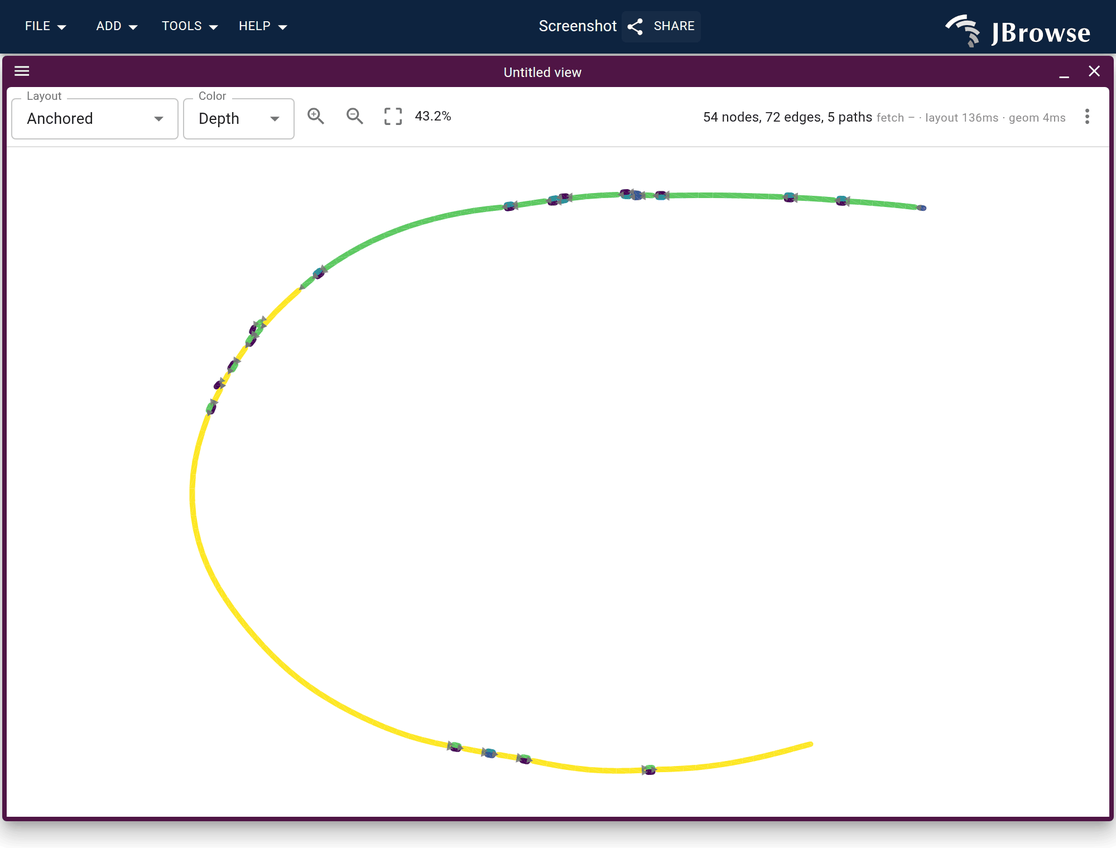
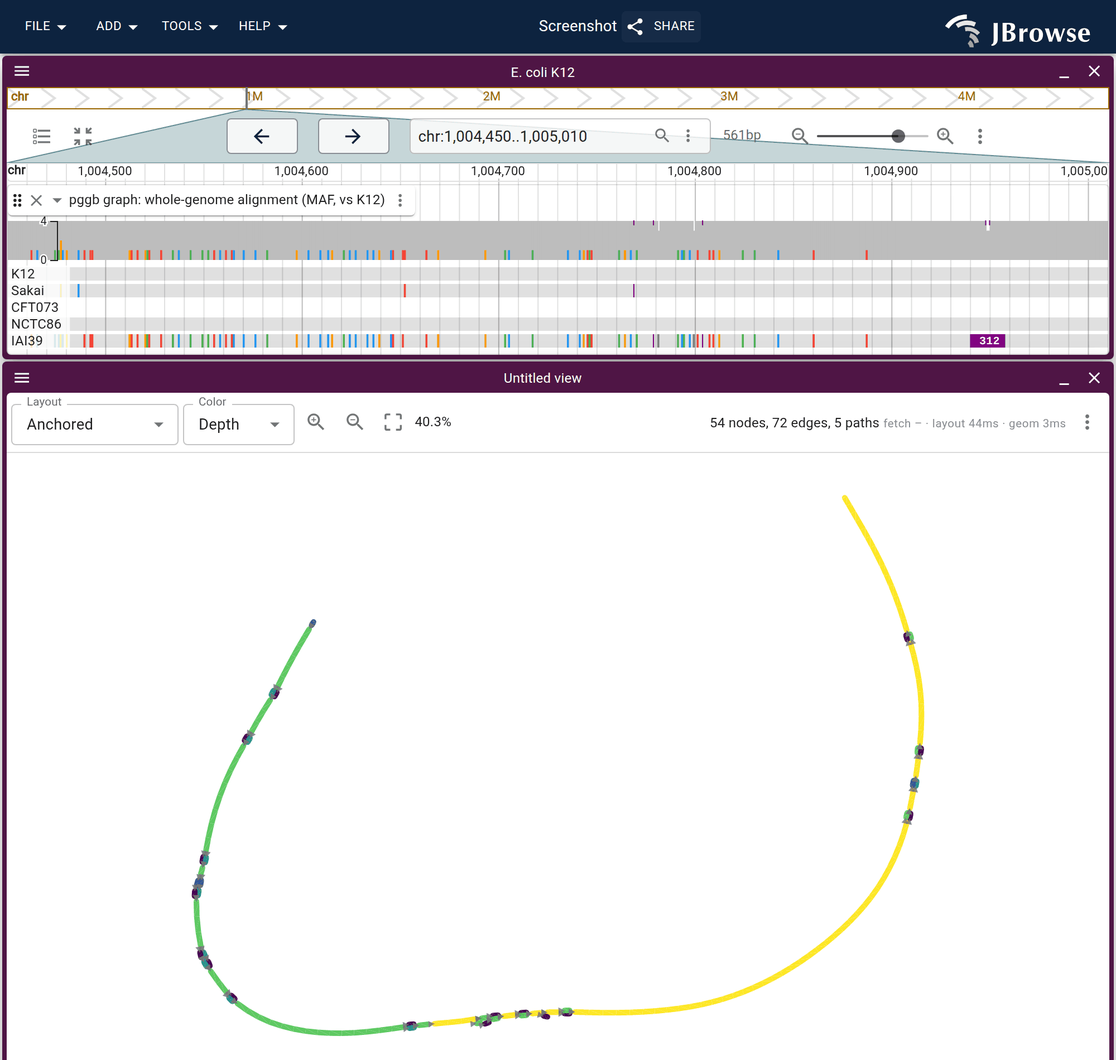
fix(website): pair the pggb subgraph with a linear view of its own locus
The figure was graph-only, and the standing answer was that it had to be: a
pggb GFA tags no segment with a position, so there is no per-node
correspondence to draw. That is true and still leaves the locus knowable — it
is written into the five P line names, K12#1#chr:1004500-1004961 — so the frame
now carries the pggb MAF over that window above the graph. The MAF's five rows
are the graph's five paths, IAI39 is the row that diverges, and the darker
specks along the graph backbone are what it diverges by.

canvasHeight has to be pinned. zoomToFit fits the layout to canvasHeight, which
the view measures before the linear view above it has laid out, so left alone
it fits to a taller canvas than it ends up with and the bottom of the graph is
cut off; asking for layoutMode 'force' explicitly makes that worse.

Also regenerates the gallery links, figure manifest and spec-recipe unmapped
list, which were stale at HEAD.

Claude-Session: https://claude.ai/code/session_015wcviw8sXrFUYPVPH544JQ

diff --git a/website/src/lib/galleryLinks.generated.ts b/website/src/lib/galleryLinks.generated.ts
@@ -14,7 +14,7 @@ export const specSessionUrls: Record<string, string> = {
   "multiway_synteny/ecoli_pangenome": "?config=https%3A%2F%2Fjbrowse.org%2Fdemos%2Fecoli_pangenome%2Fconfig.json&session=spec-%7B%22views%22%3A%5B%7B%22type%22%3A%22LinearSyntenyView%22%2C%22views%22%3A%5B%7B%22assembly%22%3A%22K12%22%7D%2C%7B%22assembly%22%3A%22Sakai%22%7D%2C%7B%22assembly%22%3A%22CFT073%22%7D%2C%7B%22assembly%22%3A%22NCTC86%22%7D%2C%7B%22assembly%22%3A%22IAI39%22%7D%5D%2C%22tracks%22%3A%5B%5B%22ecoli_ava%22%5D%2C%5B%22ecoli_ava%22%5D%2C%5B%22ecoli_ava%22%5D%2C%5B%22ecoli_ava%22%5D%5D%2C%22drawCurves%22%3Afalse%2C%22colorBy%22%3A%22default%22%2C%22minAlignmentLength%22%3A10000%2C%22levelHeights%22%3A%5B110%2C110%2C110%2C110%5D%7D%5D%7D&sessionName=Screenshot",
   "multiway_synteny/ecoli_stx_island": "?config=https%3A%2F%2Fjbrowse.org%2Fdemos%2Fecoli_pangenome%2Fconfig.json&session=spec-%7B%22views%22%3A%5B%7B%22type%22%3A%22LinearSyntenyView%22%2C%22views%22%3A%5B%7B%22assembly%22%3A%22K12%22%2C%22loc%22%3A%22chr%3A1%2C026%2C000-1%2C126%2C000%22%2C%22tracks%22%3A%5B%7B%22trackId%22%3A%22K12_genes%22%2C%22showOnlyGenes%22%3Atrue%2C%22displayMode%22%3A%22compact%22%2C%22showDescriptions%22%3Afalse%7D%5D%7D%2C%7B%22assembly%22%3A%22Sakai%22%2C%22loc%22%3A%22chr%3A1%2C205%2C000-1%2C305%2C000%22%2C%22tracks%22%3A%5B%7B%22trackId%22%3A%22Sakai_genes%22%2C%22showOnlyGenes%22%3Atrue%2C%22displayMode%22%3A%22compact%22%2C%22showDescriptions%22%3Afalse%7D%5D%7D%5D%2C%22tracks%22%3A%5B%5B%22ecoli_ava%22%5D%5D%2C%22drawCurves%22%3Atrue%2C%22colorBy%22%3A%22default%22%7D%5D%7D&sessionName=Screenshot",
   "multiway_synteny/ecoli_one_vs_all": "?config=https%3A%2F%2Fjbrowse.org%2Fdemos%2Fecoli_pangenome%2Fconfig.json&session=spec-%7B%22views%22%3A%5B%7B%22type%22%3A%22LinearGenomeView%22%2C%22assembly%22%3A%22K12%22%2C%22loc%22%3A%22chr%3A1%2C440%2C000-1%2C473%2C000%22%2C%22highlight%22%3A%5B%7B%22refName%22%3A%22chr%22%2C%22start%22%3A1446100%2C%22end%22%3A1467921%2C%22color%22%3A%22rgba(214%2C137%2C16%2C0.13)%22%7D%5D%2C%22tracks%22%3A%5B%7B%22trackId%22%3A%22K12_genes%22%2C%22showOnlyGenes%22%3Atrue%2C%22displayMode%22%3A%22compact%22%2C%22showDescriptions%22%3Afalse%7D%2C%7B%22trackId%22%3A%22ecoli_ava%22%2C%22type%22%3A%22LGVSyntenyDisplay%22%2C%22groupBy%22%3A%7B%22type%22%3A%22mateAssembly%22%7D%2C%22hideSelfAlignments%22%3Atrue%2C%22featureHeight%22%3A14%2C%22height%22%3A135%7D%5D%7D%5D%7D&sessionName=Screenshot",
-  "multiway_synteny/ecoli_one_vs_all_whole_genome": "?config=https%3A%2F%2Fjbrowse.org%2Fdemos%2Fecoli_pangenome%2Fconfig.json&session=spec-%7B%22views%22%3A%5B%7B%22type%22%3A%22LinearGenomeView%22%2C%22assembly%22%3A%22K12%22%2C%22loc%22%3A%22chr%3A1-4%2C641%2C652%22%2C%22tracks%22%3A%5B%7B%22trackId%22%3A%22ecoli_ava%22%2C%22type%22%3A%22LGVSyntenyDisplay%22%2C%22groupBy%22%3A%7B%22type%22%3A%22mateAssembly%22%7D%2C%22hideSelfAlignments%22%3Atrue%2C%22showMismatches%22%3Afalse%2C%22featureHeight%22%3A14%2C%22height%22%3A135%7D%5D%7D%5D%7D&sessionName=Screenshot",
+  "multiway_synteny/ecoli_one_vs_all_whole_genome": "?config=https%3A%2F%2Fjbrowse.org%2Fdemos%2Fecoli_pangenome%2Fconfig.json&session=spec-%7B%22views%22%3A%5B%7B%22type%22%3A%22LinearSyntenyView%22%2C%22views%22%3A%5B%7B%22assembly%22%3A%22K12%22%2C%22loc%22%3A%22chr%3A1-4%2C641%2C652%22%2C%22tracks%22%3A%5B%7B%22trackId%22%3A%22ecoli_ava%22%2C%22type%22%3A%22LGVSyntenyDisplay%22%2C%22groupBy%22%3A%7B%22type%22%3A%22mateAssembly%22%7D%2C%22hideSelfAlignments%22%3Atrue%2C%22showMismatches%22%3Afalse%2C%22featureHeight%22%3A20%2C%22height%22%3A115%7D%5D%7D%2C%7B%22assembly%22%3A%22IAI39%22%7D%2C%7B%22assembly%22%3A%22Sakai%22%7D%2C%7B%22assembly%22%3A%22CFT073%22%7D%2C%7B%22assembly%22%3A%22NCTC86%22%7D%5D%2C%22tracks%22%3A%5B%5B%22ecoli_ava%22%5D%2C%5B%22ecoli_ava%22%5D%2C%5B%22ecoli_ava%22%5D%2C%5B%22ecoli_ava%22%5D%5D%2C%22drawCurves%22%3Afalse%2C%22colorBy%22%3A%22strand%22%2C%22minAlignmentLength%22%3A10000%2C%22levelHeights%22%3A%5B100%2C100%2C100%2C100%5D%7D%5D%7D&sessionName=Screenshot",
   "multiway_synteny/ecoli_import_form": "?config=https%3A%2F%2Fjbrowse.org%2Fdemos%2Fecoli_pangenome%2Fconfig.json&session=spec-%7B%22views%22%3A%5B%5D%7D&sessionName=Screenshot",
   "linear_synteny_gallery": "?config=test_data/config_dotplot.json&session=spec-%7B%22views%22%3A%5B%7B%22type%22%3A%22LinearSyntenyView%22%2C%22drawCurves%22%3Atrue%2C%22tracks%22%3A%5B%5B%22grape_peach_synteny_mcscan%22%2C%22grape_peach_synteny_mcscan_simple%22%5D%5D%2C%22levelHeights%22%3A%5B236%5D%2C%22views%22%3A%5B%7B%22assembly%22%3A%22peach%22%2C%22loc%22%3A%22Pp05%3A7%2C380%2C181-14%2C148%2C567%22%2C%22tracks%22%3A%5B%7B%22trackId%22%3A%22grape_peach_synteny_mcscan_simple%22%2C%22type%22%3A%22LGVSyntenyDisplay%22%2C%22height%22%3A60%7D%5D%7D%2C%7B%22assembly%22%3A%22grape%22%2C%22loc%22%3A%22chr2%3A1-7%2C112%2C179%22%2C%22tracks%22%3A%5B%7B%22trackId%22%3A%22grape_peach_synteny_mcscan_simple%22%2C%22type%22%3A%22LGVSyntenyDisplay%22%2C%22height%22%3A60%7D%5D%7D%5D%7D%5D%7D&sessionName=Screenshot",
   "hs1_vs_mm39_synteny": "?config=test_data/hs1_vs_mm39/config.json&session=spec-%7B%22views%22%3A%5B%7B%22type%22%3A%22LinearSyntenyView%22%2C%22tracks%22%3A%5B%22hs1ToMm39.over.chain.pif%22%5D%2C%22minAlignmentLength%22%3A500000%2C%22drawCurves%22%3Afalse%2C%22autoDiagonalize%22%3Atrue%2C%22colorBy%22%3A%22query%22%2C%22alpha%22%3A0.4%2C%22levelHeights%22%3A%5B350%5D%2C%22views%22%3A%5B%7B%22assembly%22%3A%22hs1%22%7D%2C%7B%22assembly%22%3A%22mm39%22%7D%5D%7D%5D%7D&sessionName=Screenshot",
@@ -183,15 +183,15 @@ export const specSessionUrls: Record<string, string> = {
   "maf_470way": "?config=test_data/hg38_multiz470way.json&session=spec-%7B%22sessionTracks%22%3A%5B%7B%22type%22%3A%22FeatureTrack%22%2C%22trackId%22%3A%22ncbi_genes_hg38_ucsc%22%2C%22name%22%3A%22NCBI%20RefSeq%20(UCSC)%22%2C%22assemblyNames%22%3A%5B%22hg38%22%5D%2C%22adapter%22%3A%7B%22type%22%3A%22Gff3TabixAdapter%22%2C%22gffGzLocation%22%3A%7B%22uri%22%3A%22https%3A%2F%2Fjbrowse.org%2Fucsc%2Fhg38%2Fhg38.gff.gz%22%2C%22locationType%22%3A%22UriLocation%22%7D%2C%22index%22%3A%7B%22location%22%3A%7B%22uri%22%3A%22https%3A%2F%2Fjbrowse.org%2Fucsc%2Fhg38%2Fhg38.gff.gz.csi%22%2C%22locationType%22%3A%22UriLocation%22%7D%2C%22indexType%22%3A%22CSI%22%7D%7D%7D%5D%2C%22views%22%3A%5B%7B%22type%22%3A%22LinearGenomeView%22%2C%22assembly%22%3A%22hg38%22%2C%22loc%22%3A%2212%3A6%2C536%2C700-6%2C537%2C400%22%2C%22trackLabels%22%3A%22offset%22%2C%22tracks%22%3A%5B%7B%22trackId%22%3A%22ncbi_genes_hg38_ucsc%22%2C%22type%22%3A%22LinearBasicDisplay%22%2C%22geneGlyphMode%22%3A%22longestCoding%22%7D%2C%7B%22trackId%22%3A%22hg38.multiz470way%22%2C%22type%22%3A%22LinearMafDisplay%22%2C%22height%22%3A600%2C%22rowIdentityMode%22%3A%22heatmap%22%2C%22rowIdentityAutoZoom%22%3Afalse%7D%5D%7D%5D%7D&sessionName=Screenshot",
   "maf_470way_codon": "?config=test_data/hg38_multiz470way.json&session=spec-%7B%22sessionTracks%22%3A%5B%7B%22type%22%3A%22FeatureTrack%22%2C%22trackId%22%3A%22mane_hg38%22%2C%22name%22%3A%22MANE%20Select%201.4%20(NCBI%20RefSeq)%22%2C%22assemblyNames%22%3A%5B%22hg38%22%5D%2C%22adapter%22%3A%7B%22type%22%3A%22BigBedAdapter%22%2C%22bigBedLocation%22%3A%7B%22uri%22%3A%22https%3A%2F%2Fftp.ncbi.nlm.nih.gov%2Frefseq%2FMANE%2Ftrackhub%2Fdata%2Frelease_1.4%2FMANE.GRCh38.v1.4.refseq.bb%22%2C%22locationType%22%3A%22UriLocation%22%7D%7D%7D%5D%2C%22views%22%3A%5B%7B%22type%22%3A%22LinearGenomeView%22%2C%22assembly%22%3A%22hg38%22%2C%22trackLabels%22%3A%22offset%22%2C%22colorByCDS%22%3Atrue%2C%22loc%22%3A%2212%3A6%2C536%2C485-6%2C536%2C590%22%2C%22tracks%22%3A%5B%22mane_hg38%22%2C%7B%22trackId%22%3A%22hg38.multiz470way%22%2C%22type%22%3A%22LinearMafDisplay%22%2C%22heightOverride%22%3A560%2C%22showTranslation%22%3Atrue%2C%22showConservation%22%3Atrue%2C%22conservationMode%22%3A%22codon%22%2C%22subtreeFilter%22%3A%5B%22hg38%22%2C%22panTro6%22%2C%22gorGor6%22%2C%22ponAbe3%22%2C%22rheMac10%22%2C%22HLcalJac4%22%2C%22otoGar3%22%2C%22mm39%22%2C%22rn6%22%2C%22cavPor3%22%2C%22hetGla2%22%2C%22oryCun2%22%2C%22tupBel1%22%2C%22bosTau9%22%2C%22HLoviAri5%22%2C%22susScr11%22%2C%22vicPac2%22%2C%22turTru2%22%2C%22equCab3%22%2C%22cerSim1%22%2C%22felCat9%22%2C%22canFam4%22%2C%22ursMar1%22%2C%22myoLuc2%22%2C%22eriEur2%22%2C%22HLloxAfr4%22%2C%22echTel2%22%2C%22oryAfe1%22%2C%22dasNov3%22%2C%22monDom5%22%2C%22HLornAna3%22%5D%7D%5D%7D%5D%7D&sessionName=Screenshot",
   "pangenome/pangenome_variants": "?config=https%3A%2F%2Fjbrowse.org%2Fdemos%2Fecoli_pangenome%2Fconfig.json&session=spec-%7B%22views%22%3A%5B%7B%22type%22%3A%22LinearGenomeView%22%2C%22assembly%22%3A%22K12%22%2C%22loc%22%3A%22chr%3A2%2C120%2C000-2%2C140%2C000%22%2C%22tracks%22%3A%5B%7B%22trackId%22%3A%22K12_genes%22%2C%22type%22%3A%22LinearBasicDisplay%22%7D%2C%7B%22trackId%22%3A%22ecoli_pggb_variants%22%2C%22type%22%3A%22LinearMultiSampleVariantDisplay%22%2C%22height%22%3A160%2C%22jexlFilters%22%3A%5B%22jexl%3Aget(feature%2C'end')-get(feature%2C'start')%20%3C%20100%22%5D%7D%2C%7B%22trackId%22%3A%22ecoli_pggb_maf%22%2C%22type%22%3A%22LinearMafDisplay%22%7D%5D%7D%5D%7D&sessionName=Screenshot",
-  "pangenome/maf": "?config=https%3A%2F%2Fjbrowse.org%2Fdemos%2Fecoli_pangenome%2Fconfig.json&session=spec-%7B%22views%22%3A%5B%7B%22type%22%3A%22LinearGenomeView%22%2C%22assembly%22%3A%22K12%22%2C%22loc%22%3A%22chr%3A800%2C000-806%2C000%22%2C%22tracks%22%3A%5B%7B%22trackId%22%3A%22K12_genes%22%2C%22type%22%3A%22LinearBasicDisplay%22%7D%2C%7B%22trackId%22%3A%22ecoli_pggb_variants%22%2C%22type%22%3A%22LinearMultiSampleVariantDisplay%22%2C%22height%22%3A120%2C%22jexlFilters%22%3A%5B%22jexl%3Aget(feature%2C'end')-get(feature%2C'start')%20%3C%20100%22%5D%7D%2C%7B%22trackId%22%3A%22ecoli_pggb_maf%22%2C%22type%22%3A%22LinearMafDisplay%22%7D%5D%7D%5D%7D&sessionName=Screenshot",
+  "pangenome/maf": "?config=https%3A%2F%2Fjbrowse.org%2Fdemos%2Fecoli_pangenome%2Fconfig.json&session=spec-%7B%22views%22%3A%5B%7B%22type%22%3A%22LinearGenomeView%22%2C%22assembly%22%3A%22K12%22%2C%22loc%22%3A%22chr%3A4%2C540%2C000-4%2C600%2C000%22%2C%22tracks%22%3A%5B%7B%22trackId%22%3A%22K12_genes%22%2C%22type%22%3A%22LinearBasicDisplay%22%7D%2C%7B%22trackId%22%3A%22ecoli_pggb_variants%22%2C%22type%22%3A%22LinearMultiSampleVariantDisplay%22%2C%22height%22%3A120%2C%22jexlFilters%22%3A%5B%22jexl%3Aget(feature%2C'end')-get(feature%2C'start')%20%3C%20100%22%5D%7D%2C%7B%22trackId%22%3A%22ecoli_pggb_maf%22%2C%22type%22%3A%22LinearMafDisplay%22%7D%5D%7D%5D%7D&sessionName=Screenshot",
   "pangenome/depth": "?config=https%3A%2F%2Fjbrowse.org%2Fdemos%2Fecoli_pangenome%2Fconfig.json&session=spec-%7B%22views%22%3A%5B%7B%22type%22%3A%22LinearGenomeView%22%2C%22assembly%22%3A%22K12%22%2C%22loc%22%3A%22chr%3A1-4%2C641%2C652%22%2C%22tracks%22%3A%5B%7B%22trackId%22%3A%22ecoli_pggb_depth%22%2C%22type%22%3A%22LinearWiggleDisplay%22%2C%22height%22%3A200%7D%5D%7D%5D%7D&sessionName=Screenshot",
   "pangenome/pav": "?config=https%3A%2F%2Fjbrowse.org%2Fdemos%2Fecoli_pangenome%2Fconfig.json&session=spec-%7B%22views%22%3A%5B%7B%22type%22%3A%22LinearGenomeView%22%2C%22assembly%22%3A%22K12%22%2C%22loc%22%3A%22chr%3A1-4%2C641%2C652%22%2C%22tracks%22%3A%5B%7B%22trackId%22%3A%22ecoli_pggb_pav%22%2C%22type%22%3A%22MultiLinearWiggleDisplay%22%2C%22height%22%3A320%7D%5D%7D%5D%7D&sessionName=Screenshot",
   "pangenome_cactus/synteny": "?config=https%3A%2F%2Fjbrowse.org%2Fdemos%2Fecoli_pangenome%2Fconfig.json&session=spec-%7B%22views%22%3A%5B%7B%22type%22%3A%22LinearSyntenyView%22%2C%22views%22%3A%5B%7B%22assembly%22%3A%22K12%22%7D%2C%7B%22assembly%22%3A%22Sakai%22%7D%2C%7B%22assembly%22%3A%22CFT073%22%7D%2C%7B%22assembly%22%3A%22NCTC86%22%7D%2C%7B%22assembly%22%3A%22IAI39%22%7D%5D%2C%22tracks%22%3A%5B%5B%22ecoli_cactus_ava%22%5D%2C%5B%22ecoli_cactus_ava%22%5D%2C%5B%22ecoli_cactus_ava%22%5D%2C%5B%22ecoli_cactus_ava%22%5D%5D%2C%22drawCurves%22%3Afalse%2C%22colorBy%22%3A%22default%22%2C%22minAlignmentLength%22%3A10000%2C%22levelHeights%22%3A%5B110%2C110%2C110%2C110%5D%7D%5D%7D&sessionName=Screenshot",
-  "pangenome_cactus/variant_matrix": "?config=https%3A%2F%2Fjbrowse.org%2Fdemos%2Fecoli_pangenome%2Fconfig.json&session=spec-%7B%22sessionTracks%22%3A%5B%7B%22type%22%3A%22VariantTrack%22%2C%22trackId%22%3A%22ecoli_cactus_variants_raw%22%2C%22name%22%3A%22MC%20graph%3A%20pangenome%20variants%20(raw%20calls)%22%2C%22assemblyNames%22%3A%5B%22K12%22%5D%2C%22adapter%22%3A%7B%22type%22%3A%22VcfTabixAdapter%22%2C%22uri%22%3A%22https%3A%2F%2Fjbrowse.org%2Fdemos%2Fecoli_pangenome%2Fecoli_cactus.vcf.gz%22%7D%7D%5D%2C%22views%22%3A%5B%7B%22type%22%3A%22LinearGenomeView%22%2C%22assembly%22%3A%22K12%22%2C%22loc%22%3A%22chr%3A995%2C000-1%2C015%2C000%22%2C%22tracks%22%3A%5B%7B%22trackId%22%3A%22K12_genes%22%2C%22type%22%3A%22LinearBasicDisplay%22%7D%2C%7B%22trackId%22%3A%22ecoli_cactus_variants_raw%22%2C%22type%22%3A%22LinearVariantDisplay%22%2C%22height%22%3A70%7D%2C%7B%22trackId%22%3A%22ecoli_cactus_variants%22%2C%22type%22%3A%22LinearMultiSampleVariantDisplay%22%2C%22height%22%3A160%2C%22jexlFilters%22%3A%5B%22jexl%3Aget(feature%2C'end')-get(feature%2C'start')%20%3C%20100%22%5D%7D%2C%7B%22trackId%22%3A%22ecoli_cactus_maf%22%2C%22type%22%3A%22LinearMafDisplay%22%7D%5D%7D%5D%7D&sessionName=Screenshot",
+  "pangenome_cactus/variant_matrix": "?config=https%3A%2F%2Fjbrowse.org%2Fdemos%2Fecoli_pangenome%2Fconfig.json&session=spec-%7B%22views%22%3A%5B%7B%22type%22%3A%22LinearGenomeView%22%2C%22assembly%22%3A%22K12%22%2C%22loc%22%3A%22chr%3A2%2C200%2C000-2%2C220%2C000%22%2C%22tracks%22%3A%5B%7B%22trackId%22%3A%22K12_genes%22%2C%22type%22%3A%22LinearBasicDisplay%22%7D%2C%7B%22trackId%22%3A%22ecoli_cactus_variants%22%2C%22type%22%3A%22LinearMultiSampleVariantDisplay%22%2C%22height%22%3A200%2C%22forceLoad%22%3Atrue%2C%22jexlFilters%22%3A%5B%22jexl%3AalleleLength(feature)%20%3C%20100%22%5D%7D%2C%7B%22trackId%22%3A%22ecoli_cactus_maf%22%2C%22type%22%3A%22LinearMafDisplay%22%7D%5D%7D%5D%7D&sessionName=Screenshot",
   "pangenome_cactus/maf": "?config=https%3A%2F%2Fjbrowse.org%2Fdemos%2Fecoli_pangenome%2Fconfig.json&session=spec-%7B%22views%22%3A%5B%7B%22type%22%3A%22LinearGenomeView%22%2C%22assembly%22%3A%22K12%22%2C%22loc%22%3A%22chr%3A800%2C000-806%2C000%22%2C%22tracks%22%3A%5B%7B%22trackId%22%3A%22K12_genes%22%2C%22type%22%3A%22LinearBasicDisplay%22%7D%2C%7B%22trackId%22%3A%22ecoli_cactus_maf%22%2C%22type%22%3A%22LinearMafDisplay%22%7D%5D%7D%5D%7D&sessionName=Screenshot",
-  "pangenome_cactus/graph_correspondence": "?config=https%3A%2F%2Fjbrowse.org%2Fdemos%2Fecoli_pangenome%2Fconfig.json&session=spec-%7B%22views%22%3A%5B%7B%22type%22%3A%22LinearGenomeView%22%2C%22assembly%22%3A%22K12%22%2C%22loc%22%3A%22chr%3A1-4%2C641%2C652%22%2C%22highlight%22%3A%5B%7B%22refName%22%3A%22chr%22%2C%22start%22%3A1000000%2C%22end%22%3A1100000%2C%22color%22%3A%22rgba(31%2C119%2C180%2C0.40)%22%7D%2C%7B%22refName%22%3A%22chr%22%2C%22start%22%3A2040000%2C%22end%22%3A2140000%2C%22color%22%3A%22rgba(255%2C127%2C14%2C0.40)%22%7D%2C%7B%22refName%22%3A%22chr%22%2C%22start%22%3A3100000%2C%22end%22%3A3200000%2C%22color%22%3A%22rgba(44%2C160%2C44%2C0.40)%22%7D%5D%2C%22tracks%22%3A%5B%7B%22trackId%22%3A%22ecoli_cactus_depth%22%2C%22type%22%3A%22LinearWiggleDisplay%22%2C%22height%22%3A160%7D%5D%7D%5D%7D&sessionName=Screenshot",
+  "pangenome_cactus/graph_correspondence": "?config=https%3A%2F%2Fjbrowse.org%2Fdemos%2Fecoli_pangenome%2Fconfig.json&session=spec-%7B%22views%22%3A%5B%7B%22type%22%3A%22LinearGenomeView%22%2C%22assembly%22%3A%22K12%22%2C%22loc%22%3A%22chr%3A1-4%2C641%2C652%22%2C%22highlight%22%3A%5B%7B%22refName%22%3A%22chr%22%2C%22start%22%3A1000000%2C%22end%22%3A1100000%2C%22color%22%3A%22rgba(255%2C193%2C7%2C0.60)%22%7D%5D%2C%22tracks%22%3A%5B%7B%22trackId%22%3A%22ecoli_cactus_depth%22%2C%22type%22%3A%22LinearWiggleDisplay%22%2C%22height%22%3A160%7D%5D%7D%5D%7D&sessionName=Screenshot",
   "pangenome_cactus/pav": "?config=https%3A%2F%2Fjbrowse.org%2Fdemos%2Fecoli_pangenome%2Fconfig.json&session=spec-%7B%22views%22%3A%5B%7B%22type%22%3A%22LinearGenomeView%22%2C%22assembly%22%3A%22K12%22%2C%22loc%22%3A%22chr%3A1-4%2C641%2C652%22%2C%22tracks%22%3A%5B%7B%22trackId%22%3A%22ecoli_cactus_depth%22%2C%22type%22%3A%22LinearWiggleDisplay%22%2C%22height%22%3A150%7D%2C%7B%22trackId%22%3A%22ecoli_cactus_pav%22%2C%22type%22%3A%22MultiLinearWiggleDisplay%22%2C%22height%22%3A240%7D%5D%7D%5D%7D&sessionName=Screenshot",
-  "pangenome/local_subgraph": "?config=test_data/graphgenomeview/config.json&session=spec-%7B%22views%22%3A%5B%7B%22type%22%3A%22GraphGenomeView%22%2C%22gfaLocation%22%3A%7B%22uri%22%3A%22https%3A%2F%2Fjbrowse.org%2Fdemos%2Fecoli_pangenome%2Fecoli_pggb_subgraph.gfa%22%7D%2C%22colorScheme%22%3A%22depth%22%7D%5D%7D&sessionName=Screenshot",
+  "pangenome/local_subgraph": "?config=test_data/graphgenomeview/config.json&session=spec-%7B%22sessionTracks%22%3A%5B%7B%22type%22%3A%22MafTrack%22%2C%22trackId%22%3A%22ecoli_pggb_maf%22%2C%22name%22%3A%22pggb%20graph%3A%20whole-genome%20alignment%20(MAF%2C%20vs%20K12)%22%2C%22assemblyNames%22%3A%5B%22K12%22%5D%2C%22adapter%22%3A%7B%22type%22%3A%22BgzipTaffyAdapter%22%2C%22samples%22%3A%5B%22K12%22%2C%22Sakai%22%2C%22CFT073%22%2C%22NCTC86%22%2C%22IAI39%22%5D%2C%22tafGzLocation%22%3A%7B%22uri%22%3A%22https%3A%2F%2Fjbrowse.org%2Fdemos%2Fecoli_pangenome%2Fecoli_pggb.taf.gz%22%7D%2C%22taiLocation%22%3A%7B%22uri%22%3A%22https%3A%2F%2Fjbrowse.org%2Fdemos%2Fecoli_pangenome%2Fecoli_pggb.taf.gz.tai%22%7D%7D%7D%5D%2C%22views%22%3A%5B%7B%22type%22%3A%22LinearGenomeView%22%2C%22assembly%22%3A%22K12%22%2C%22loc%22%3A%22chr%3A1%2C004%2C450-1%2C005%2C010%22%2C%22tracks%22%3A%5B%7B%22trackId%22%3A%22ecoli_pggb_maf%22%2C%22type%22%3A%22LinearMafDisplay%22%7D%5D%7D%2C%7B%22type%22%3A%22GraphGenomeView%22%2C%22gfaLocation%22%3A%7B%22uri%22%3A%22https%3A%2F%2Fjbrowse.org%2Fdemos%2Fecoli_pangenome%2Fecoli_pggb_subgraph.gfa%22%7D%2C%22layoutMode%22%3A%22force%22%2C%22colorScheme%22%3A%22depth%22%2C%22contigThickness%22%3A16%7D%5D%7D&sessionName=Screenshot",
   "pangenome/rgfa_subgraph_launch": "?config=test_data/graphgenomeview/config.json&session=spec-%7B%22sessionTracks%22%3A%5B%7B%22type%22%3A%22FeatureTrack%22%2C%22trackId%22%3A%22ecoli_minigraph_segments%22%2C%22name%22%3A%22minigraph%20graph%20segments%20(rGFA)%22%2C%22assemblyNames%22%3A%5B%22K12%22%5D%2C%22adapter%22%3A%7B%22type%22%3A%22RgfaTabixAdapter%22%2C%22uri%22%3A%22https%3A%2F%2Fjbrowse.org%2Fdemos%2Fecoli_pangenome%2Fecoli_minigraph%22%7D%2C%22displayDefaults%22%3A%7B%22color%22%3A%22jexl%3Aget(feature%2C'rank')%3D%3D0%3F'rgb(52%2C152%2C219)'%3A'rgb(237%2C137%2C44)'%22%7D%7D%5D%2C%22views%22%3A%5B%7B%22type%22%3A%22LinearGenomeView%22%2C%22assembly%22%3A%22K12%22%2C%22loc%22%3A%22chr%3A4%2C050%2C000-4%2C100%2C000%22%2C%22tracks%22%3A%5B%22ecoli_minigraph_segments%22%5D%7D%2C%7B%22type%22%3A%22GraphGenomeView%22%2C%22loadedTrackId%22%3A%22ecoli_minigraph_segments%22%2C%22loadedRegion%22%3A%7B%22refName%22%3A%22chr%22%2C%22assemblyName%22%3A%22K12%22%2C%22start%22%3A4050000%2C%22end%22%3A4100000%7D%2C%22colorScheme%22%3A%22stable-rank%22%7D%5D%7D&sessionName=Screenshot",
   "pangenome/hprc_mhc_bandage": "?config=test_data/graphgenomeview/hprc.json&session=spec-%7B%22views%22%3A%5B%7B%22type%22%3A%22LinearGenomeView%22%2C%22assembly%22%3A%22hg38%22%2C%22loc%22%3A%22chr6%3A32%2C500%2C000-32%2C560%2C000%22%2C%22tracks%22%3A%5B%22hg38_ncbiRefSeq_ucsc%22%2C%22hprc_minigraph_bubbles%22%2C%22hprc_minigraph_segments%22%5D%7D%2C%7B%22type%22%3A%22GraphGenomeView%22%2C%22loadedTrackId%22%3A%22hprc_minigraph_segments%22%2C%22loadedRegion%22%3A%7B%22refName%22%3A%22chr6%22%2C%22assemblyName%22%3A%22hg38%22%2C%22start%22%3A32500000%2C%22end%22%3A32560000%7D%2C%22layoutMode%22%3A%22force%22%2C%22colorScheme%22%3A%22stable-rank%22%7D%5D%7D&sessionName=Screenshot",
   "hprc2/mhc_clustered": "?config=test_data/hprc2/config.json&session=spec-%7B%22sessionTracks%22%3A%5B%7B%22type%22%3A%22FeatureTrack%22%2C%22trackId%22%3A%22hg38_ncbiRefSeq_ucsc%22%2C%22name%22%3A%22NCBI%20RefSeq%20genes%20(hg38)%22%2C%22assemblyNames%22%3A%5B%22hg38%22%5D%2C%22adapter%22%3A%7B%22type%22%3A%22Gff3TabixAdapter%22%2C%22gffGzLocation%22%3A%7B%22uri%22%3A%22https%3A%2F%2Fjbrowse.org%2Fucsc%2Fhg38%2FncbiRefSeq.gff.gz%22%2C%22locationType%22%3A%22UriLocation%22%7D%2C%22index%22%3A%7B%22location%22%3A%7B%22uri%22%3A%22https%3A%2F%2Fjbrowse.org%2Fucsc%2Fhg38%2FncbiRefSeq.gff.gz.csi%22%2C%22locationType%22%3A%22UriLocation%22%7D%2C%22indexType%22%3A%22CSI%22%7D%7D%7D%5D%2C%22views%22%3A%5B%7B%22type%22%3A%22LinearGenomeView%22%2C%22assembly%22%3A%22hg38%22%2C%22loc%22%3A%22chr6%3A32%2C450%2C000-32%2C650%2C000%22%2C%22tracks%22%3A%5B%7B%22trackId%22%3A%22hg38_ncbiRefSeq_ucsc%22%2C%22geneGlyphMode%22%3A%22longestCoding%22%2C%22displayMode%22%3A%22compact%22%7D%2C%7B%22trackId%22%3A%22hprc2_wave_grch38%22%2C%22type%22%3A%22LinearMultiSampleVariantDisplay%22%2C%22height%22%3A460%2C%22jexlFilters%22%3A%5B%22jexl%3AalleleLength(feature)%20%3E%3D%2050%22%5D%2C%22runClustering%22%3Atrue%7D%5D%7D%5D%7D&sessionName=Screenshot",

diff --git a/website/scripts/specs/graph.ts b/website/scripts/specs/graph.ts
@@ -55,30 +55,68 @@ const MHC_REGION = {
 }
 
 export const graphSpecs: ScreenshotSpec[] = [
-  // The pggb subgraph: a plain GFA, so it has no rank tags to anchor to and the
-  // force engine is the only layout that can draw it (layoutMode 'auto' falls
-  // through to FMMM on its own). Colored by depth, how many of the four strains
-  // traverse each node. The FMMM run drifts ~3% between runs, so diffThreshold
-  // is raised well above it to keep the committed PNG stable across regens.
+  // The pggb subgraph, over the linear view of the same locus (reviewer: "we need
+  // a linear genome view to correspond with what is shown"). A pggb GFA tags no
+  // segment with a position, so there is no per-node correspondence to draw —
+  // but the locus is not unknown: the file's five P lines ARE named for it, and
+  // K12#1#chr:1004500-1004961 is the window the LGV above opens. The graph's five
+  // paths and the MAF's five rows are the same five strains through the same
+  // 461 bp, one as a bubble chain and one as an alignment.
+  //
+  // Layout left on 'auto'. With no rank tags to anchor to it settles into the
+  // engine's own backbone inference, and that is the one setting whose result
+  // reliably lands inside the view's 600px canvas — asking for 'force'
+  // explicitly draws a taller layout that the auto-fit then clips. It drifts a
+  // few percent between captures, hence the raised diffThreshold.
   {
     mode: 'url',
     name: 'pangenome/local_subgraph',
     url: sessionSpec(CONFIG, {
+      // the shared graphgenomeview fixture config carries only the K12
+      // assembly, so the pggb MAF comes in as a session track
+      sessionTracks: [
+        {
+          type: 'MafTrack',
+          trackId: 'ecoli_pggb_maf',
+          name: 'pggb graph: whole-genome alignment (MAF, vs K12)',
+          assemblyNames: ['K12'],
+          adapter: {
+            type: 'BgzipTaffyAdapter',
+            samples: ['K12', 'Sakai', 'CFT073', 'NCTC86', 'IAI39'],
+            tafGzLocation: { uri: `${DATA}/ecoli_pggb.taf.gz` },
+            taiLocation: { uri: `${DATA}/ecoli_pggb.taf.gz.tai` },
+          },
+        },
+      ],
       views: [
+        {
+          type: 'LinearGenomeView',
+          assembly: 'K12',
+          loc: 'chr:1,004,450-1,005,010',
+          tracks: [{ trackId: 'ecoli_pggb_maf', type: 'LinearMafDisplay' }],
+        },
         {
           type: 'GraphGenomeView',
           gfaLocation: { uri: `${DATA}/ecoli_pggb_subgraph.gfa` },
           colorScheme: 'depth',
+          // zoomToFit fits the layout to canvasHeight, and the view measures
+          // that before the linear view above it has laid out — so left to
+          // itself it fits to a canvas taller than the panel it ends up with
+          // and the bottom of the graph is cut off. Pinned to the height the
+          // panel actually gets at this viewport.
+          canvasHeight: 560,
         },
       ],
     }),
     readySelector: TOOLBAR_READY,
-    readyTimeout: 60000,
+    readyTimeout: 90000,
     allowUnsettled: true,
     settleMs: 8000,
     diffThreshold: 0.1,
     viewportWidth: 1000,
-    viewportHeight: 760,
+    // the graph view draws into a fixed 600px canvas, so the frame has to be
+    // the linear view plus that plus both headers or the layout is clipped
+    viewportHeight: 950,
     hideTooltip: true,
   },
   // The indexed route on the tutorial's own four-strain graph: the rGFA

diff --git a/website/scripts/screenshot-review-plan.md b/website/scripts/screenshot-review-plan.md
@@ -49,6 +49,62 @@ agents (not mine):
 `website/docs/user_guides/{alignments_track,hic_track,gc_content_track}.md`,
 root `package.json`/`pnpm-lock.yaml`/`.github`, etc.
 
+## 2026-07-25 later pass — 5 more bad items cleared
+
+`pangenome/maf` in the same batch was taken by another agent in this shared
+worktree (they had already edited `specs/pangenome.ts` and had the generator
+running under `--localport 3356`) — **check `ps` for a running
+`generate-screenshots` before claiming an item**, and pass your own
+`--localport`, the default 3334 is a hard `EADDRINUSE`.
+
+- **`pangenome_cactus/variant_matrix`** — the window was the problem, not the
+  rendering. `chr:995,000-1,015,000` had NCTC86 reference at 574 of 582 calls (a
+  flat grey row), zero missing genotypes (so the legend advertised a "No call"
+  yellow that appeared nowhere), and a 6 kb stretch whose every call sat inside
+  one top-level bubble, which the sub-100bp filter removed and left a hole that
+  read as a bug. Rescoring 20 kb windows on "every strain carries alt, some
+  strain carries no-calls, no empty 2 kb sub-window" gives
+  `chr:2,200,000-2,220,000`: IAI39 goes no-call over the last 6 kb and its MAF
+  row below drops out across the same stretch, so the figure now shows one
+  strain leaving the alignment twice over. The redundant raw-calls lane is gone
+  (at this window it is a solid gold wall), the filter moved to
+  `jexl:alleleLength(feature) < 100` (the big records here are INSERTIONS, which
+  `end - start` scores as 1), and the lane carries `forceLoad: true` — 1,341
+  records over 1,000 px is past the 1-feature-per-pixel gate. **NCTC86 being
+  nearly all-reference is real**: it is alt at only 7.3% of sites genome-wide
+  against CFT073's 63%, i.e. it is the strain closest to K-12. Do not go looking
+  for a rendering bug there.
+- **`pangenome_cactus/graph` + `graph_correspondence`** — three outlined boxes
+  cut to one translucent gold band, in both halves, same paint.
+  `build_ecoli_pangenome_cactus.sh` draws the raster band and emits the K12
+  window to `graph_landmarks.tsv`; the JBrowse `highlight` uses the identical
+  `rgba(255,193,7,0.60)`. **Gold, not blue**: the two images have opposite
+  backgrounds (saturated rows on white vs the solid dark blue of the depth
+  track) and blue vanished into the second. The band-drawing step needs only
+  `ecoli_cactus_graph.png` + `graph_landmarks.tsv`, both of which survive in
+  `~/ecoli_cactus5/`, so re-rendering it does NOT mean re-running cactus.
+- **`multiway_synteny/ecoli_one_vs_all_whole_genome`** — the one-vs-all lanes
+  now sit on the K-12 row of a `LinearSyntenyView` instead of in a view of their
+  own, so both readings of the same PAF share one axis. **IAI39 goes second, not
+  last**: bands are between adjacent rows, so that is the only order in which a
+  K12<->IAI39 band exists at all, and its crossings then sit directly under the
+  blue stretches of the IAI39 lane. `colorBy: 'strand'` on the bands because
+  LGVSyntenyDisplay already colors its lanes that way.
+- **`pangenome/local_subgraph`** — paired with an LGV of the same locus. The
+  earlier WON'T FIX was half right: a pggb GFA tags no segment with a position,
+  so there is no per-node correspondence — but the locus is in the file, inside
+  the five `P` line names (`K12#1#chr:1004500-1004961`), and the MAF's five rows
+  are the graph's five paths. **Pin `canvasHeight`** (560 at
+  `viewportHeight: 950`): `zoomToFit` fits to `canvasHeight`, which the view
+  measures before the linear view above it has laid out, so left alone it fits
+  to a taller canvas than it ends up with and the bottom of the graph is cut
+  off. An explicit `layoutMode: 'force'` makes that worse, not better. The graph
+  panel is still a thin curve — a 54-node near-linear subgraph is what it is,
+  and the FMMM run drifts between captures (hence `diffThreshold: 0.1`). A
+  `LinearMultiSampleVariantDisplay` on a session-declared `VariantTrack` at this
+  locus rendered its legend but **no rows at all**; not chased, the lane was
+  dropped as redundant with the MAF, but it looks like a real bug.
+
 ## 2026-07-25 session — 15 of 17 bad items cleared
 
 Three app changes came out of it:
@@ -60,10 +116,11 @@ Three app changes came out of it:
   self-alignment lane" checkbox: an aligner run with `minimap2 -X` skips each
   sequence's own diagonal, so the view's own lane in an all-vs-all track holds
   only internal paralogy and every reviewer read it as missing data.
-- **`alleleLength` jexl function** (`plugins/variants/src/shared/alleleLength.ts`)
-  — longest allele in bp, so `jexl:alleleLength(feature) >= 50` selects the SV
-  tier of a decomposed pangenome callset. A filter on `end - start` keeps only
-  deletions: an insertion consumes no reference, so its span is 1.
+- **`alleleLength` jexl function**
+  (`plugins/variants/src/shared/alleleLength.ts`) — longest allele in bp, so
+  `jexl:alleleLength(feature) >= 50` selects the SV tier of a decomposed
+  pangenome callset. A filter on `end - start` keeps only deletions: an
+  insertion consumes no reference, so its span is 1.
 - **QuickStartPanel track Select capped at 500px** — it was `fullWidth` with no
   cap and stretched the whole import-form dialog.
 
@@ -80,20 +137,20 @@ what it is.
 Deleted (redundant, per the reviewer's delete-when-redundant call):
 `pangenome/graph_rgfa`, `pangenome/graph_force` (graph-only; the
 `rgfa_subgraph_launch` and `hprc_mhc_bandage` figures pair the same layouts with
-a linear view), `pangenome_cactus/boxed_locus_synteny`,
-`hprc2/mhc_matrix`. `pangenome_cactus/depth` was folded into
-`pangenome_cactus/pav` (depth curve above the per-strain rows in one frame).
+a linear view), `pangenome_cactus/boxed_locus_synteny`, `hprc2/mhc_matrix`.
+`pangenome_cactus/depth` was folded into `pangenome_cactus/pav` (depth curve
+above the per-strain rows in one frame).
 
-**Right-click coordinates in `genomes_synteny/launch_sequence`**: only the pileup
-row hit-tests (y 331 at that viewport). The band a few px above it returns no
-context menu at all, which is what makes "the coordinate is wrong" look like
-"the feature is missing". Aim at a LONG chain block — the launch frames the new
-view on the block under the cursor, so a short fragment gives a tiny view.
+**Right-click coordinates in `genomes_synteny/launch_sequence`**: only the
+pileup row hit-tests (y 331 at that viewport). The band a few px above it
+returns no context menu at all, which is what makes "the coordinate is wrong"
+look like "the feature is missing". Aim at a LONG chain block — the launch
+frames the new view on the block under the cursor, so a short fragment gives a
+tiny view.
 
 Still bad: `desktop-blat-results` (wants BLAT results in a sidebar widget — app
-feature, untouched), `tcga/cnv_recurrence_genome` (renderer dies past ~860px of
-canvas for 1104 auto-fit rows; unchanged), plus whatever the reviewer flags on
-the newly regenerated figures.
+feature, untouched), plus whatever the reviewer flags on the newly regenerated
+figures. (`tcga/cnv_recurrence_genome` has since been dropped from the json.)
 
 ## Done this session (uncommitted) — the big one was a real bug
 

diff --git a/website/docs/tutorials/pangenome_ecoli.md b/website/docs/tutorials/pangenome_ecoli.md
@@ -173,7 +173,7 @@ a 164 bp backbone segment on one picture, with the SNP alleles as the specks, in
 proportion. A few hundred bp is what makes that structure legible, not what the
 view can load.
 
-<Figure caption="A 400 bp slice of the five-strain graph (K12:1,004,500-1,004,961), 54 nodes over 5 paths. The layout is set to Anchored, but a pggb GFA tags no segment with a stable position, so there is nothing to anchor to and what you get is graph structure rather than K12 coordinates: the only coordinates in the file are inside the path names. Node color is depth, how many of the five strains traverse that node, so the shared backbone runs yellow and green and the short divergent segments strung along it are darker. This is the structure the projections below re-express as a variant column, a synteny break, or a coverage dip." src="/img/pangenome/local_subgraph.png" />
+<Figure caption="A 461 bp slice of the five-strain graph, 54 nodes over 5 paths, under the MAF alignment of the same locus. The graph's five paths and the MAF's five rows are the same five strains: IAI39 is the row that diverges, and the darker specks strung along the graph backbone are what it diverges by. A pggb GFA tags no segment with a position, so the two panels line up as a locus, not node by node; the only coordinates in the file are the ones inside the path names, which is where K12:1,004,500-1,004,961 comes from. Node color is depth, how many strains traverse that node." src="/img/pangenome/local_subgraph.png" />
 
 ### rGFA graphs carry their own coordinates
 
